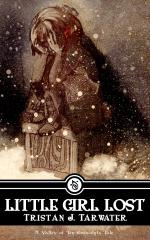
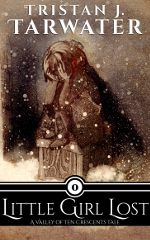
update covers, tweak newsletter signup a bit

diff --git a/free-books/index.html b/free-books/index.html
@@ -12,16 +12,15 @@ sitemap:
 <!-- Begin MailChimp Signup Form -->
         <form action="//backthatelfup.us5.list-manage2.com/subscribe/post?u=8ac42c027c15ee52a0e2644af&amp;id=2e68440dab" method="post" id="mc-embedded-subscribe-form" name="mc-embedded-subscribe-form" class="validate" novalidate>
             <div>
-                <input type="email" value="" name="EMAIL" class="email" id="mce-EMAIL" placeholder="email address" required>
+                <input type="email" value="" name="EMAIL" class="email" id="mce-EMAIL-wide" placeholder="email address" required>
     <!-- real people should not fill this in and expect good things - do not remove this or risk form bot signups-->
                     <div style="position: absolute; left: -5000px;"><input type="text" name="b_8ac42c027c15ee52a0e2644af_2e68440dab" tabindex="-1" value=""></div><input type="checkbox" id="group_2" name="group[19793][2]" value="1" checked="checked" class="hide av-checkbox"><div class="clear"><input type="submit" value="Send My Free Books" name="subscribe" id="mc-embedded-subscribe" class="button submit"></div>
             </div>
         </form>
 <!--End mc_embed_signup-->
 <p>Enter your email address to get your free books delivered to your inbox.</p>
-
-  <div class="small-12 columns">
-    <img src="/images/books/free-bundle.jpg">
-  </div>
   <p>You’ll also be added to my Readers’ Group and you’ll be the first to know next time I have some cool stuff to give away (you can unsubscribe at any time).</p>  
+  <div class="small-12 columns">
+    <img src="/images/books/3d-stack.png">
+  </div>
 </div>

diff --git a/newsletter/index.html b/newsletter/index.html
@@ -10,7 +10,7 @@ title: newsletter
 <!-- Begin MailChimp Signup Form -->
         <form action="//backthatelfup.us5.list-manage2.com/subscribe/post?u=8ac42c027c15ee52a0e2644af&amp;id=2e68440dab" method="post" id="mc-embedded-subscribe-form" name="mc-embedded-subscribe-form" class="validate" novalidate>
             <div>
-                <input type="email" value="" name="EMAIL" class="email" id="mce-EMAIL" placeholder="email address" required>
+                <input type="email" value="" name="EMAIL" class="email" id="mce-EMAIL-wide" placeholder="email address" required>
     <!-- real people should not fill this in and expect good things - do not remove this or risk form bot signups-->
                     <div style="position: absolute; left: -5000px;"><input type="text" name="b_8ac42c027c15ee52a0e2644af_2e68440dab" tabindex="-1" value=""></div><input type="checkbox" id="group_4" name="group[19793][4]" value="1" checked="checked" class="hide av-checkbox">
                     <div class="clear"><input type="submit" value="Send My Free Books" name="subscribe" id="mc-embedded-subscribe" class="button submit"></div>

diff --git a/_sass/_newsletter.scss b/_sass/_newsletter.scss
@@ -2,18 +2,27 @@
 
 #mce-EMAIL {
   float: left;
-  width: 20em;
+  width: 30em;
   margin-left: 26%;
   
   @media screen and (max-width: 768px) {
-      width: 15em;
+      width: 98%;
+      margin-left: 0px;
+  }
+}
+
+#mce-EMAIL-wide {
+  float: left;
+  width: 98%;
+  
+  @media screen and (max-width: 768px) {
       margin-left: 0px;
   }
 }
 
 #mc-embedded-subscribe.button {
   float: left;
-  width: 197px;
+  width: 98%;
   margin-bottom: 0;
   padding-bottom: .5rem;
   height: 4rem;

diff --git a/_sass/_newsletter-modal.scss b/_sass/_newsletter-modal.scss
@@ -113,6 +113,10 @@ a#login_pop:hover, a#join_pop:hover {
     -ms-transition: opacity .5s, top .5s;
     -o-transition: opacity .5s, top .5s;
     transition: opacity .5s, top .5s;
+    
+      @media screen and (max-width: 768px) {
+    width: 80%; 
+  }
 }
 .overlay:target+.popup {
     top: 50%;
